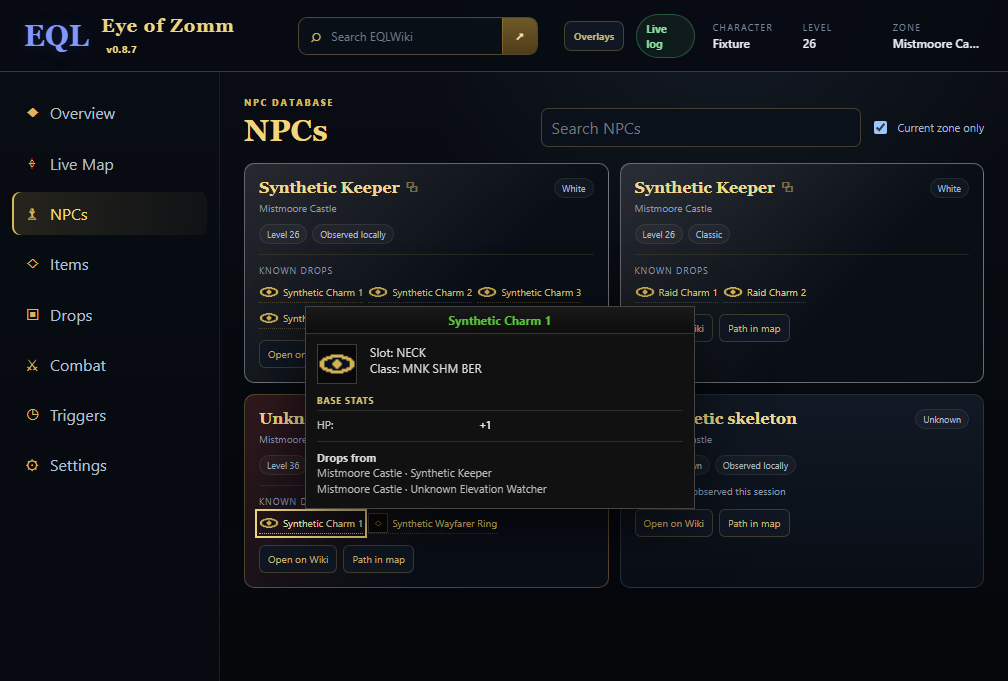
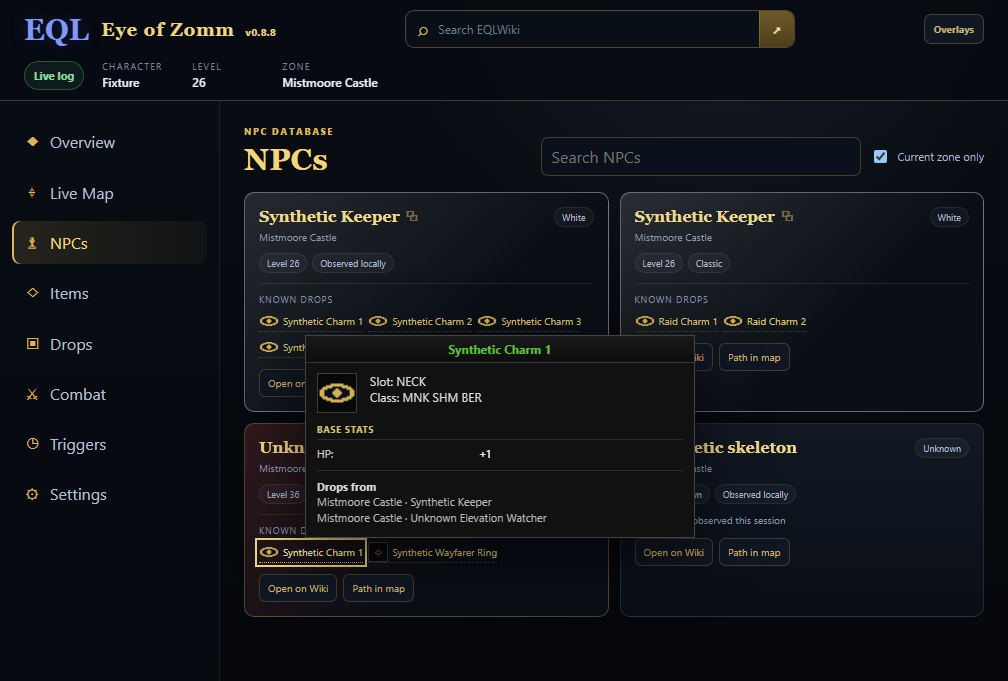
Refresh 0.8.8 interface media and platform validation evidence

diff --git a/VALIDATION.md b/VALIDATION.md
@@ -7,9 +7,39 @@ same repository, then authorized publication after completion. Source ownership
 and required platform checks are recorded in [FONTS_LINUX.md](docs/FONTS_LINUX.md).
 The candidate keeps Windows and Linux on one version and shared verified wiki
 bootstrap. Tests/builds/captures run in GitHub CI; the owner's local application
-is not run or installed for this work. Actual CI outcomes and package evidence
-will be added after execution. Native Wayland and real game/compositor behavior
-remain separate acceptance, as do complete installed upgrades.
+is not run or installed for this work.
+
+The [Windows package build](https://github.com/Maergoth/EQL-EOZ/actions/runs/39862378605)
+and [Linux package job](https://github.com/Maergoth/EQL-EOZ/actions/runs/39862385659/job/120116045766)
+passed on candidate `74d9cbd`. Both ran the full source suite, catalog relevance,
+actual Electron native-window/session checks, map sizing, software WebGL camera
+and file-isolation checks, and appearance controls. Font checks exercised 10/20
+px with 0.75/1.75 panel multipliers, bounded menus and controls at a non-maximized
+1024px main window, Triggers auto-height, canvas labels, active timer identity/
+deadline retention, renderer reload, process restart and Reset fonts. Review
+also retained native panels' `connect-src 'none'` with deterministically generated
+font presets and matched Linux names to the pinned builder's real expansion.
+
+Linux produced AppImage/deb artifacts and launched the original packaged binary
+with its original ASAR, sandbox intact and isolated XDG/profile directories.
+The real packaged app selected a synthetic Proton path, read appended log damage,
+zone and location, exposed four native panels and opened its real tour dialog.
+The appearance harness additionally ran against exact packaged ASAR sources.
+Windows produced the NSIS installer with its existing identity and updater flow.
+Exact source/image/bootstrap byte checks passed on both platforms. Both included
+manifest `20261022T000652Z-ecd7d8648c90`, pack `wiki-20261022T000157Z`, with 124 zones,
+8,679 NPCs and 11,270 items; the production refresh policy is unchanged.
+
+The [release PR](https://github.com/Maergoth/EQL-EOZ/pull/9) records final-head
+checks after the capture/download-note follow-up. One publisher waits for both
+platforms, supplies one verified bootstrap to both, validates package checksums,
+and publishes the complete asset set together. It generates direct Windows and
+Linux download links and refuses to replace published artifacts on reruns.
+
+Ubuntu 22.04/Xvfb/Openbox establishes an X11 baseline. Native Wayland, foreground
+game/compositor behavior, OS clipboard capture and complete installed upgrades
+remain separate acceptance. The Linux binary smoke is not an AppImage mount,
+deb installation, distribution-wide certification or installed upgrade test.
 
 ## 0.8.7 Triggers, sessions and complete Intel
 

diff --git a/docs/IMPLEMENTATION_STATUS.md b/docs/IMPLEMENTATION_STATUS.md
@@ -8,8 +8,8 @@ This is the compact execution index for the [road to v1](UX_VISION.md#16-road-to
 
 | Vision area | Status | Evidence | Next condition |
 |---|---|---|---|
-| Font preferences | 0.8.8 implementation and CI in progress | Shared main/overlay family and base size with retained panel multipliers; [continuation guide](FONTS_LINUX.md) | Verify live updates, persistence, controls and text at bounded sizes |
-| Linux desktop | 0.8.8 packaging/runtime gates in progress | Same source/version, AppImage/deb, native selected-folder paths and verified package handoff | Pass actual Linux packaged smoke and retain compositor/game acceptance limits |
+| Font preferences | Implemented; native Windows/Linux CI passed | Shared main/overlay family and bounded base size, retained panel multipliers, process persistence/reset, canvas labels and compact Trigger sizing; [evidence](../VALIDATION.md) | Retain physical DPI/compositor acceptance |
+| Linux desktop | Implemented; Ubuntu 22.04/X11 package/runtime CI passed | Same source/version, AppImage/deb, actual packaged binary/log/panels smoke, selected-folder paths and verified package handoff | Native Wayland, other desktops and complete installed upgrades remain manual acceptance |
 | 0.6 usable loop | Implemented | Folder/log/zone/`/loc` readiness, persistent mode/destination, relevant item defaults, live tier details, non-modal recovery; `npm test` | Retain all [Windows/manual gates](WINDOWS_MANUAL_TEST.md) |
 | 0.7 replacement map | Implemented; local rendering checked | Explicit coordinate adapters, exact/serialized loads, accurate logged HUD, hidden framing, intel-first defaults, optional map/routing, persistent cancel, WLD texture alignment; 27 view/scale captures | Complete live-client sections 1–5 and OS-wide DPI checks on a current build |
 | 0.8 live route guidance | Implemented in 0.7.1; real-client gate required | Pure projection/remaining-distance/turn/facing/off-route tests; cue HUD in First/Top/Map; route summary updates from `/loc` | Verify cue direction and readability while moving in all three modes |

diff --git a/docs/FONTS_LINUX.md b/docs/FONTS_LINUX.md
@@ -55,3 +55,17 @@ does not create a separate application data source or Linux-only feature fork.
    Windows and Linux artifacts and their verified production bootstrap.
 5. Verify tag/commit, all uploaded package sizes/digests and release notes. Do
    not describe a packaged smoke check as an installed upgrade or live-game test.
+
+## Observed evidence and ongoing maintenance
+
+[VALIDATION.md](../VALIDATION.md) links the passing Windows installer and Linux
+package/runtime jobs. Both exercise fonts and the shared session; Linux also
+launches the actual packaged executable with its original ASAR and a synthetic
+Proton directory. Native Wayland and real game compositing remain manual.
+
+Keep one version and share one Releases link. The publisher generates direct
+Windows installer, Linux AppImage and deb links from the same artifact-name
+contract used by checksums. Future releases need no separate Linux branch,
+manual package uploads, data refresh or release-note download-link editing.
+The updater selects the matching platform/package format; Linux's verified
+manual handoff remains distinct from Windows' silent restart/install action.

diff --git a/README.md b/README.md
@@ -21,7 +21,7 @@ On Linux, make the AppImage executable and launch it, or install the deb using y
 
 ## A look around
 
-These screenshots show the actual **0.8.7 Electron interface with synthetic log, wiki, map and update-state fixtures**, captured by [GitHub CI](https://github.com/Maergoth/EQL-EOZ/actions/runs/39698239325). They contain no player records, proprietary zone geometry or live game capture. Native game compositing and OS-wide DPI behavior require separate [Windows acceptance checks](docs/WINDOWS_MANUAL_TEST.md).
+These screenshots show the actual **0.8.8 Electron interface with synthetic log, wiki, map and update-state fixtures**, captured by [Windows CI](https://github.com/Maergoth/EQL-EOZ/actions/runs/39863077085) and [Linux/X11 CI](https://github.com/Maergoth/EQL-EOZ/actions/runs/39862385659/job/120116045766). They contain no player records, proprietary zone geometry or live game capture. Native game compositing and OS-wide DPI behavior require separate [Windows acceptance checks](docs/WINDOWS_MANUAL_TEST.md).
 
 ### A normal desktop workspace
 
